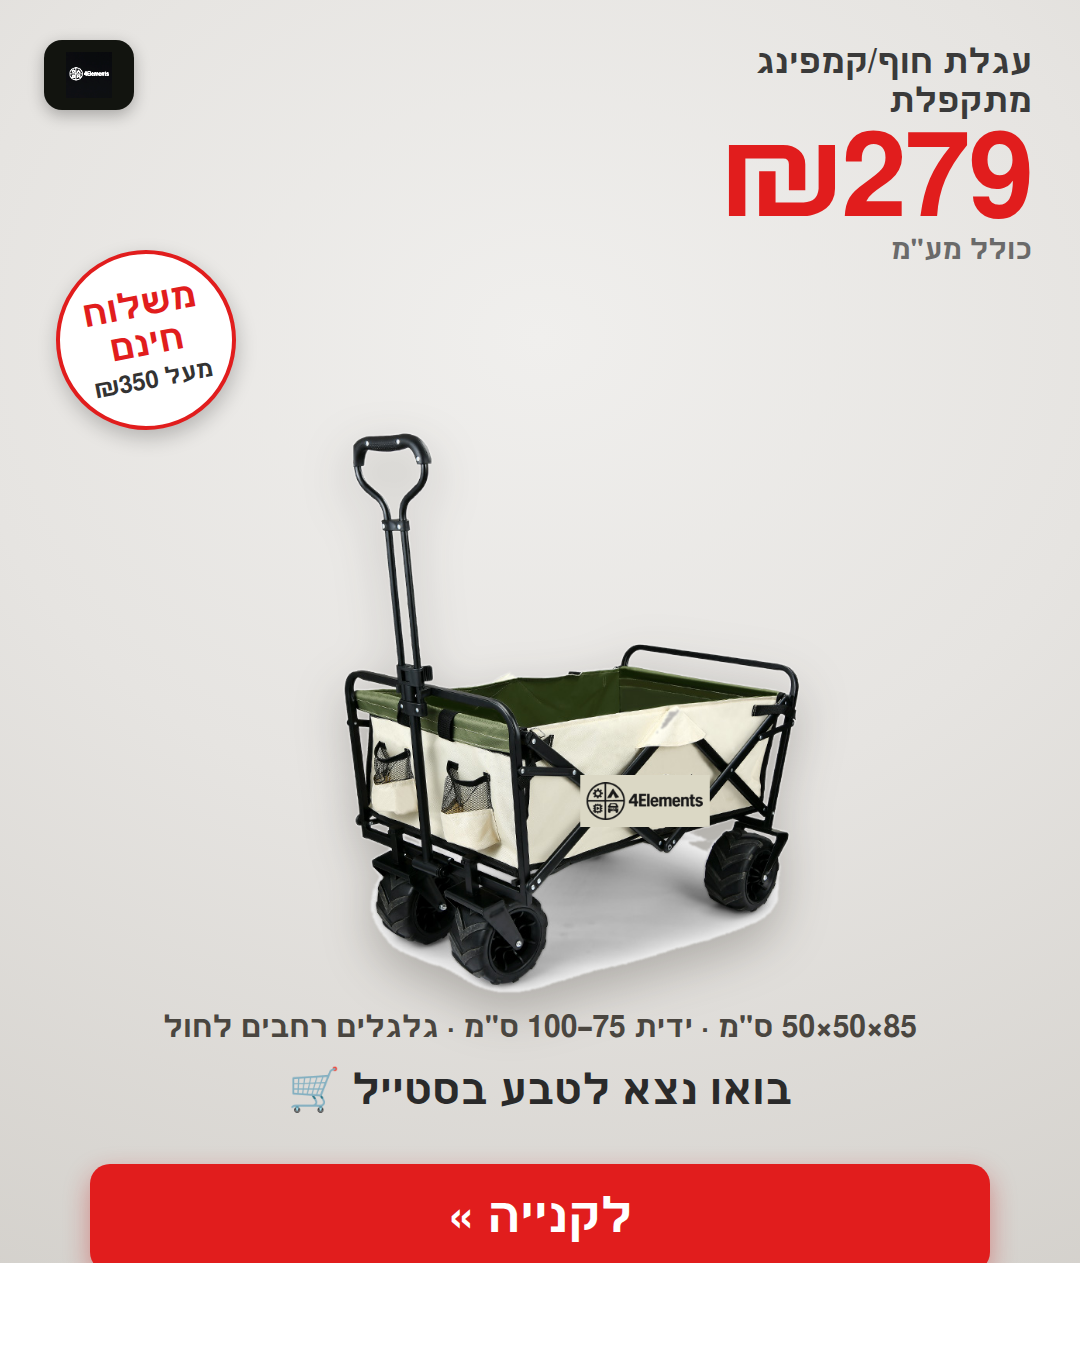
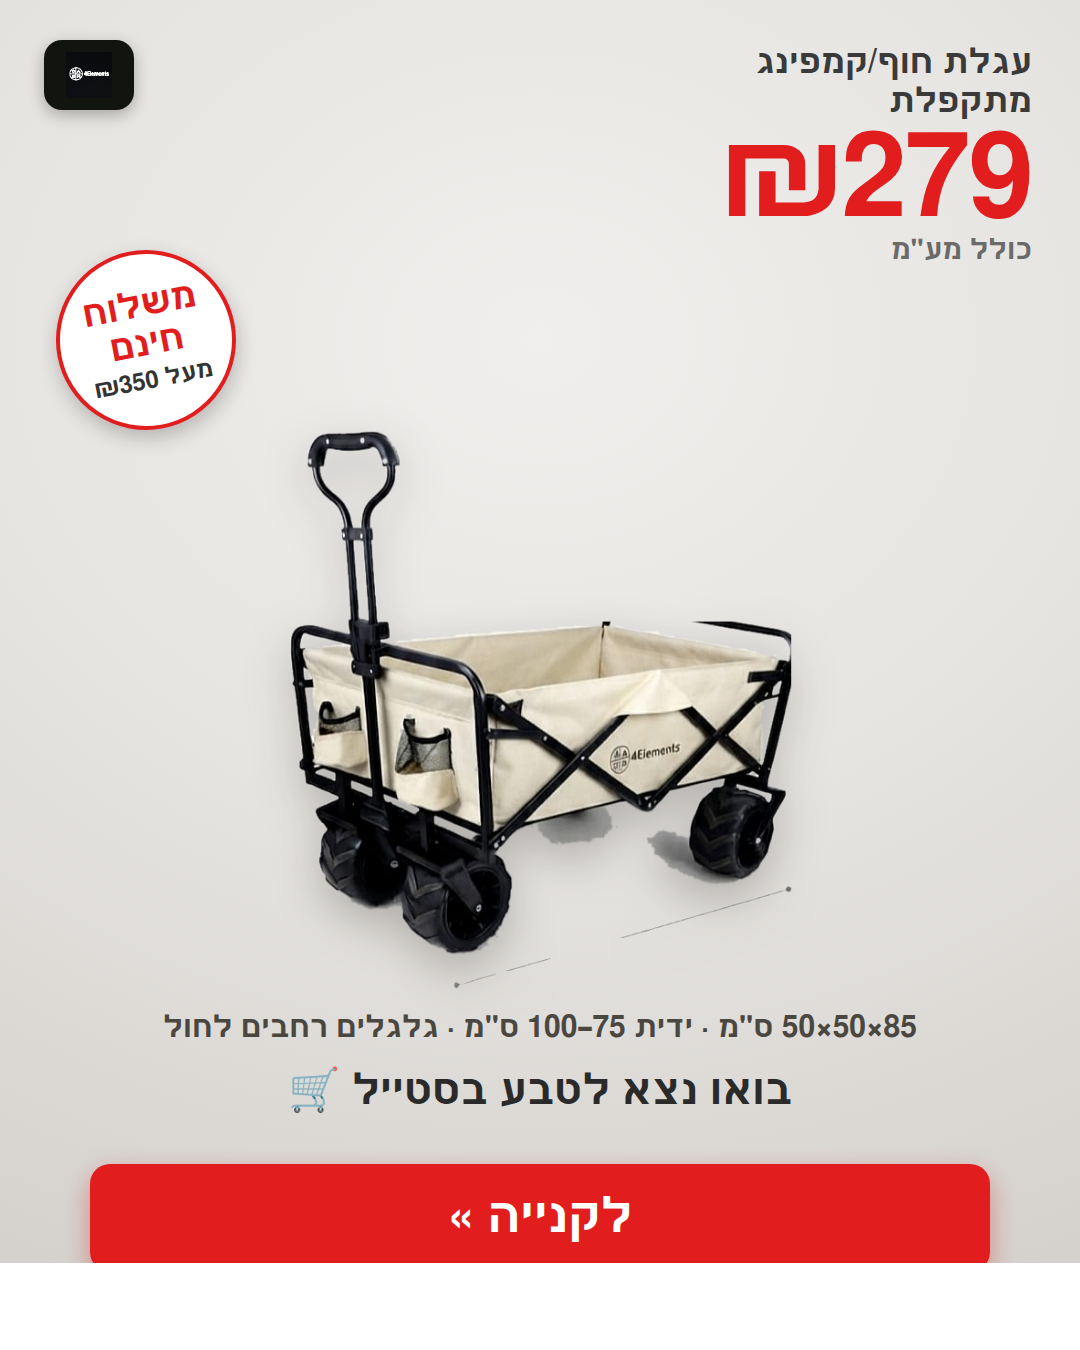
Use customer's clean 3/4 cart photo in conversion ad (callouts removed, real specs)

Changed region(s): [[0.2444, 0.3111, 0.7639, 0.7467]]

diff --git a/marketing/ad-sources/render-cart-shopad.html b/marketing/ad-sources/render-cart-shopad.html
@@ -14,8 +14,8 @@ html,body{margin:0;padding:0;}*{box-sizing:border-box;-webkit-font-smoothing:ant
  color:#e11d1d;font-weight:bold;box-shadow:0 8px 20px rgba(0,0,0,0.22);transform:rotate(-11deg);}
 .stamp .a{font-size:36px;line-height:1;}.stamp .b{font-size:36px;line-height:1;margin-top:3px;}
 .stamp .c{font-size:24px;line-height:1;margin-top:7px;color:#333;font-weight:bold;}
-.cart{position:absolute;left:50%;top:400px;transform:translateX(-50%);width:620px;
- filter:drop-shadow(0 18px 24px rgba(40,35,30,0.28));}
+.cart{position:absolute;left:50%;top:430px;transform:translateX(-50%);height:560px;width:auto;
+ filter:drop-shadow(0 16px 22px rgba(40,35,30,0.26));}
 .spec{position:absolute;bottom:305px;left:0;width:1080px;text-align:center;color:#4a4640;font-size:30px;font-weight:bold;}
 .tag{position:absolute;bottom:236px;left:0;width:1080px;text-align:center;color:#2a2a2a;font-size:42px;font-weight:bold;}
 .btn{position:absolute;bottom:78px;left:90px;width:900px;height:108px;background:#e11d1d;border-radius:20px;
@@ -30,7 +30,7 @@ html,body{margin:0;padding:0;}*{box-sizing:border-box;-webkit-font-smoothing:ant
     <div class="vat">כולל מע״מ</div>
   </div>
   <div class="stamp"><div class="a">משלוח</div><div class="b">חינם</div><div class="c">מעל ₪350</div></div>
-  <img class="cart" src="file:///home/user/landed-cost/marketing/ad-sources/cart-cutout.png">
+  <img class="cart" src="file:///home/user/landed-cost/marketing/ad-sources/cart-new-cutout.png">
   <div class="spec">85×50×50 ס״מ · ידית 75–100 ס״מ · גלגלים רחבים לחול</div>
   <div class="tag">בואו נצא לטבע בסטייל 🛒</div>
   <div class="btn">לקנייה »</div>
